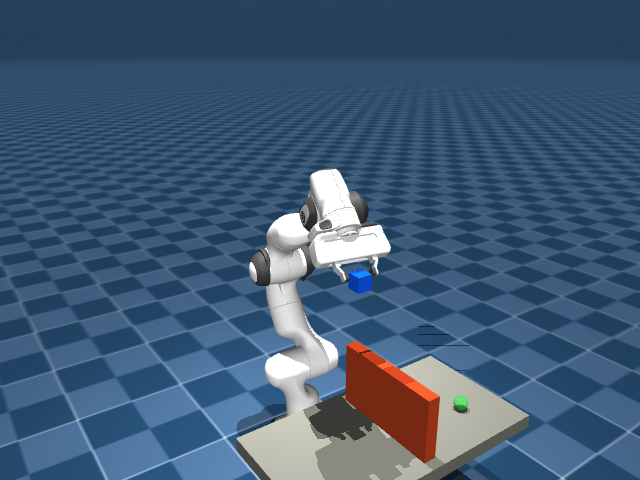
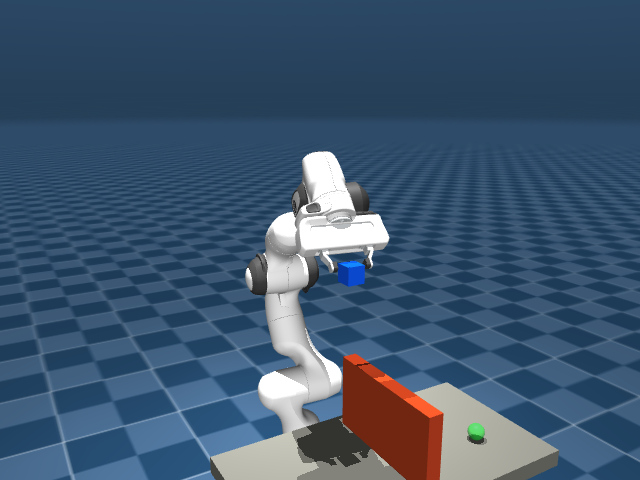
docs: adjust README screenshots to slight top-down view

diff --git a/tools/render_readme_screenshots.py b/tools/render_readme_screenshots.py
@@ -126,10 +126,10 @@ def _render_replay_frame(
     # A stable three-quarter view that keeps the table, obstacle/object, and
     # Panda arm visible across the README showcase tasks.
     object_position = np.asarray(frame["object_position"], dtype=float)
-    camera.lookat[:] = np.asarray([0.10, 0.00, max(0.45, object_position[2])], dtype=float)
-    camera.distance = 1.65
-    camera.azimuth = 145.0
-    camera.elevation = -20.0
+    camera.lookat[:] = np.asarray([0.11, 0.00, max(0.43, object_position[2])], dtype=float)
+    camera.distance = 1.48
+    camera.azimuth = 150.0
+    camera.elevation = -14.0
 
     renderer.update_scene(data, camera=camera)
     image = renderer.render()